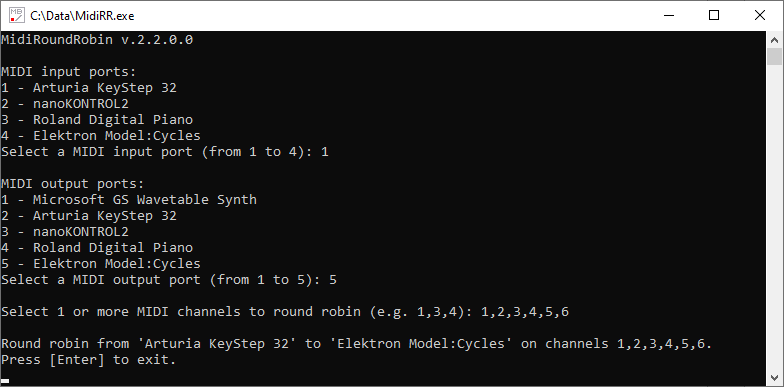
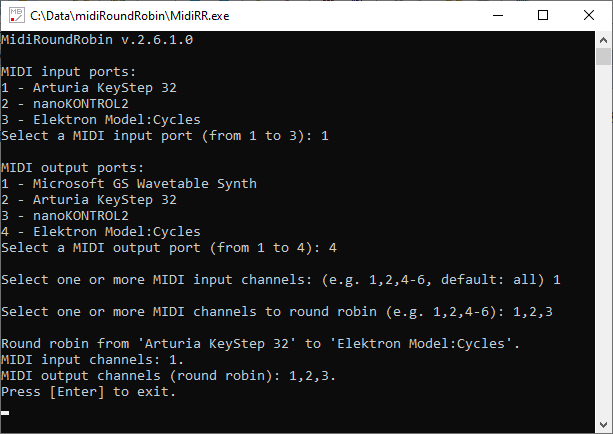
Updated docs

diff --git a/README.md b/README.md
@@ -7,7 +7,7 @@ MidiRoundRobin is a command line utility that performs a round robin between MID
 ## How it works
 Suppose you play some notes on a MIDI keyboard, let's say C, D, E, F on channel 1; here's what happens:
 
-**[MIDI keyboard]** -> C (ch **1**), D (ch **1**), E (ch **1**), F (ch **1**) -> **[MidiRoundRobin utility]** -> C (ch **1**), D (ch **2**), E (ch **3**), F (ch **1**)
+**[MIDI keyboard]** -> C (ch **1**), D (ch **1**), E (ch **1**), F (ch **1**) -> **[MidiRoundRobin]** -> C (ch **1**), D (ch **2**), E (ch **3**), F (ch **1**)
 
 As you can see, output channels are rotated (round robin). The output channels sequence can be configurated (see below).
 
@@ -19,7 +19,7 @@ I created this application to play with Elektron Model:Cycles, a monophonic, six
 - connect the Model:Cycles via MIDI to the PC
 - launch MidiRoundRobin (MidiRR.exe) and, when asked:
 	- select your keyboard as MIDI in, and the Model:Cycles as MIDI out
-	- select the channels 1-6 (from 1 to 6) as MIDI output to feed all the tracks
+	- select channels 1-6 (from 1 to 6) as MIDI output to feed all the tracks
 - play your six notes chords!
 
 You can also set only one output channel, for a simple MIDI routing without a full blown DAW.
@@ -38,14 +38,15 @@ Here's an example:
 {
   "midiIn": "Arturia KeyStep 32",
   "midiOut": "Elektron Model:Cycles",
-  "channels": "1,2,3,4,5,6"
+  "midiChannelsIn": "16", // other channels are echoed to MIDI out on the same channel
+  "midiChannelsOut": "1,2,3" // 1,2,3,1,2,3,...
 }
 ```
 
 ### 3. command line arguments
 Overrides the configuration file:
 ```
-> MidiRR.exe --midiIn="Arturia KeyStep 32" --midiOut="Elektron Model:Cycles" --channels="1,2,3,4,5,6"
+> MidiRR.exe --midiIn="Arturia KeyStep 32" --midiOut="Elektron Model:Cycles" --midiChannelsIn="16" --midiChannelsOut="1,2,3"
 ```
 
 You can mix 1, 2 and 3 (some settings passed by argument, some in MidiRR.settings.json and the rest entered in interactive mode).
